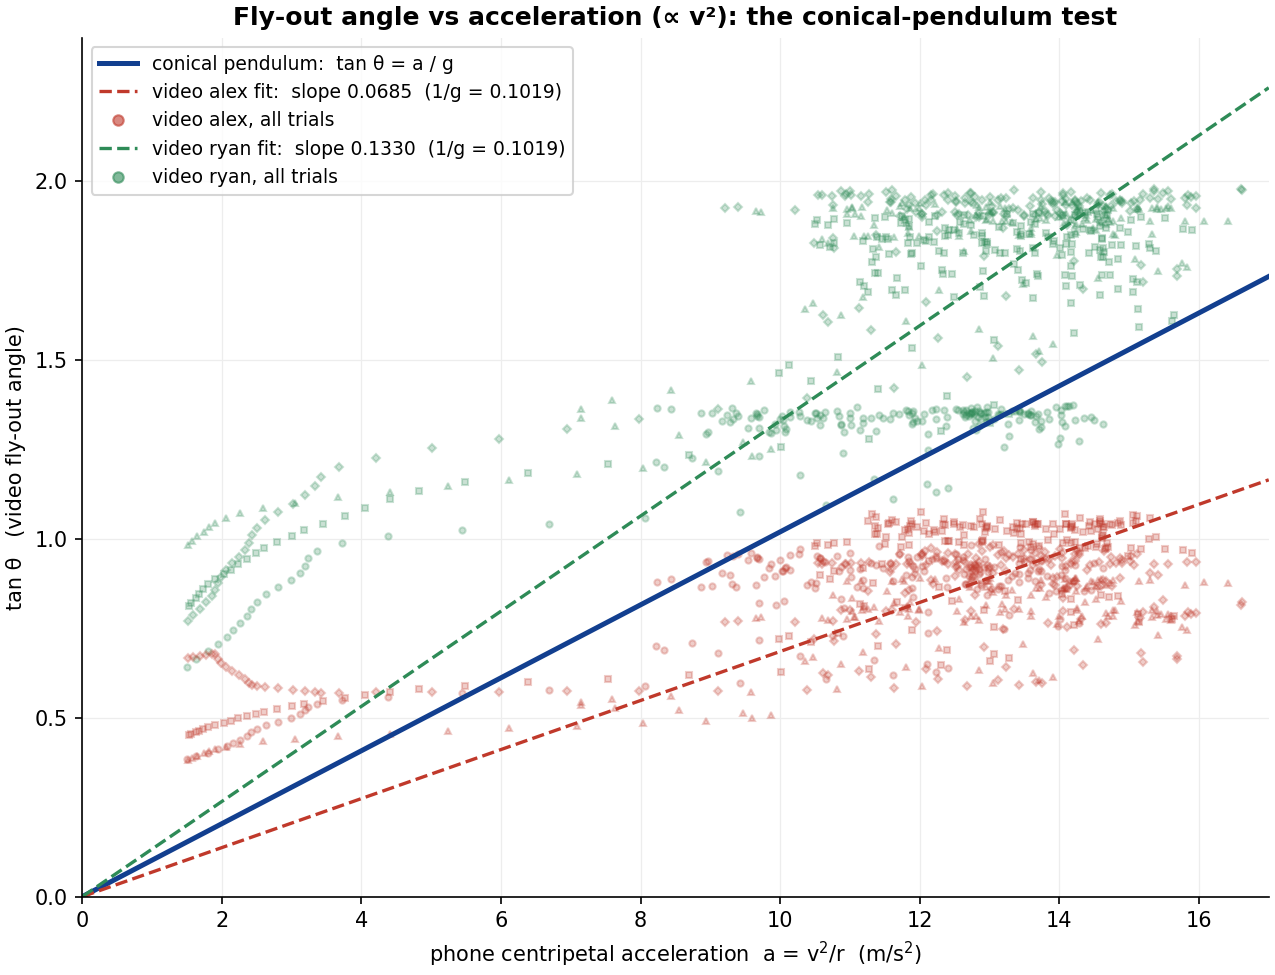
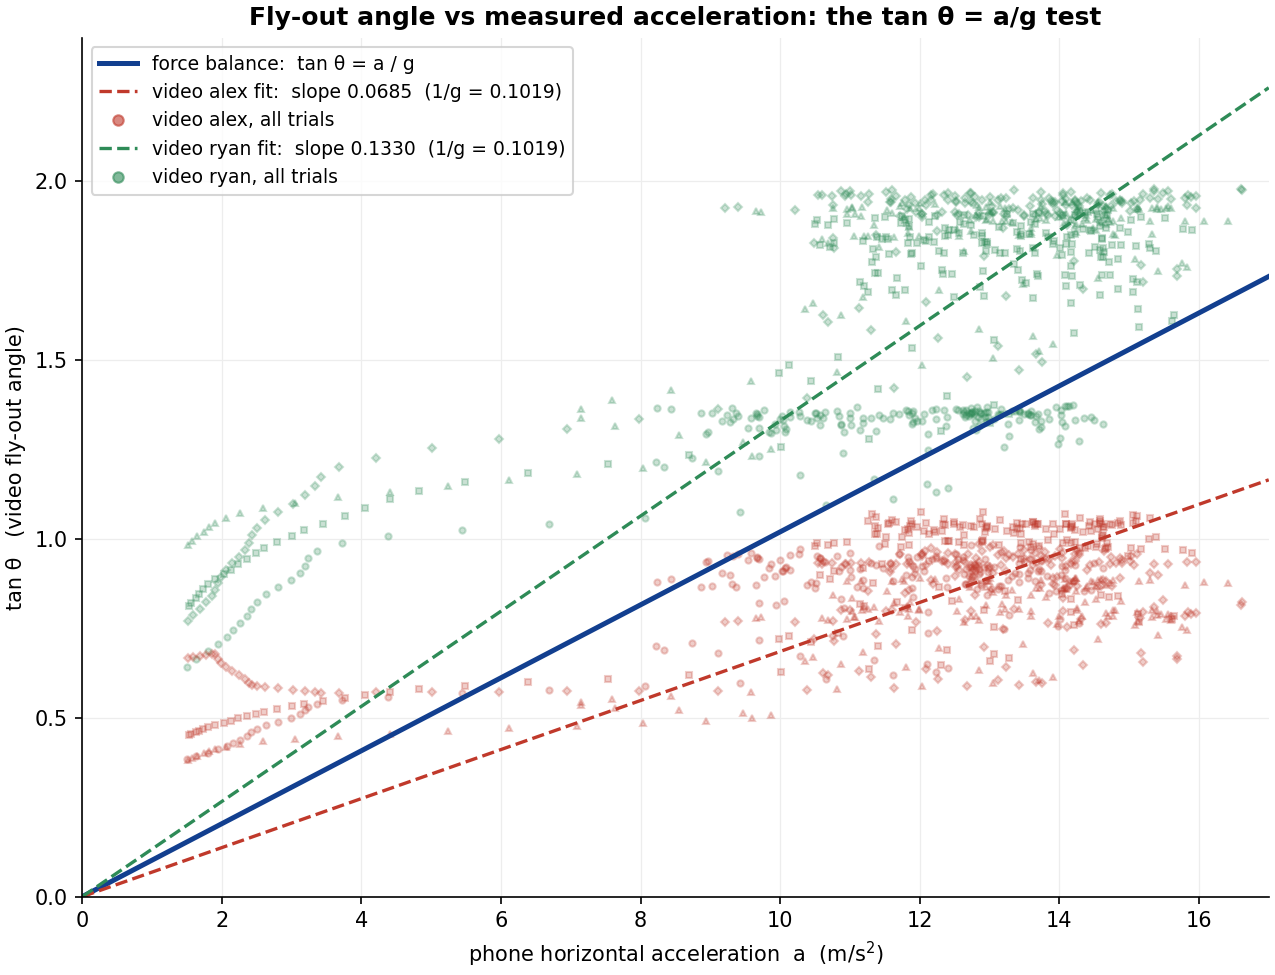
Keep the analysis to year 11 physics
The prof wants no circular motion, and none is needed: the phone measures
the horizontal acceleration directly, and resolving tension and weight on
a hanging chair gives tan theta = a/g. Scrubbed centripetal / v^2 /
conical-pendulum wording from the figure and docs; dropped the planned
v^2 axis, which would have needed a = v^2/r.

Changed region(s): [[0.1835, 0.0, 0.8871, 0.0308], [0.3365, 0.9538, 0.7341, 0.9846], [0.1224, 0.0615, 0.3365, 0.0923]]

diff --git a/scripts/angle_vs_accel.py b/scripts/angle_vs_accel.py
@@ -1,9 +1,10 @@
-# The correlation plot: video tan(theta) against the phone's centripetal
-# acceleration a. For a conical pendulum tan(theta) = a/g, and since a = v^2/r
-# this is the angle-vs-velocity-squared test with the radius factored out -
-# no ride geometry needed, everything on the plot is measured. Time pairing
-# comes from the synced per-trial sheets. Rows where the phone reads flat
-# (ride idle / rider not aboard) are dropped: there the video only sees junk.
+# The correlation plot: video tan(theta) against the phone's measured
+# horizontal acceleration a. Resolving forces on a hanging chair (tension
+# along the chain, weight down) with Newton's second law gives
+# T sin(theta) = m a and T cos(theta) = m g, so tan(theta) = a / g -
+# nothing beyond that is assumed. Time pairing comes from the synced
+# per-trial sheets. Rows where the phone reads flat (ride idle / rider not
+# aboard) are dropped: there the video only sees junk.
 #   python scripts/angle_vs_accel.py
 import os
 
@@ -40,7 +41,7 @@ for n in ("1", "2", "3", "4"):
         ax.plot(x[::4], y[::4], MARKS[n], color=color, ms=3, alpha=0.25)
 
 xs = np.linspace(0, 17, 50)
-ax.plot(xs, xs / G, color="#123f8f", lw=2.4, label="conical pendulum:  tan θ = a / g")
+ax.plot(xs, xs / G, color="#123f8f", lw=2.4, label="force balance:  tan θ = a / g")
 for cam, color in (("alex", accel.C_EMA), ("ryan", "#2e8b57")):
     x = np.concatenate(pts[cam][0])
     y = np.concatenate(pts[cam][1])
@@ -49,13 +50,13 @@ for cam, color in (("alex", accel.C_EMA), ("ryan", "#2e8b57")):
             label=f"video {cam} fit:  slope {slope:.4f}  (1/g = {1 / G:.4f})")
     ax.plot([], [], "o", color=color, ms=5, alpha=0.6, label=f"video {cam}, all trials")
 
-ax.set_xlabel("phone centripetal acceleration  a = v$^2$/r  (m/s$^2$)")
+ax.set_xlabel("phone horizontal acceleration  a  (m/s$^2$)")
 ax.set_ylabel("tan θ   (video fly-out angle)")
 ax.set_xlim(0, 17)
 ax.set_ylim(0, 2.4)
 ax.legend(fontsize=9, loc="upper left")
 accel.style_axis(ax)
-ax.set_title("Fly-out angle vs acceleration (∝ v²): the conical-pendulum test",
+ax.set_title("Fly-out angle vs measured acceleration: the tan θ = a/g test",
              fontsize=12, fontweight="bold")
 out = os.path.join(ROOT, "output", "report", "tan_theta_vs_accel.png")
 fig.savefig(out, dpi=150)

diff --git a/scripts/volare_angle.py b/scripts/volare_angle.py
@@ -1,5 +1,5 @@
 # Measures the fly-out angle of the Volare (chair swing ride) from video, no
-# clicking needed. The ride is a conical pendulum so tan(theta) = a/g, which is
+# clicking needed. Force balance on a hanging chair gives tan(theta) = a/g, which is
 # what we compare against the phone accelerometer (arctan(aT/g), since phyphox
 # logs linear acceleration).
 #

diff --git a/README.md b/README.md
@@ -7,9 +7,11 @@ fairground ride (the *Volare*, a wave swinger) from two independent sources:
 2. **Video** of the ride (two cameras) - the chains' fly-out angle θ(t), measured
    automatically frame by frame.
 
-The physics linking them: the ride is a conical pendulum, so at fly-out angle θ
-from vertical, **tan θ = a_horizontal / g**. The videos give θ independently of the
-phone, so the model is tested rather than assumed. (The phone logs are linear
+The physics linking them is a force balance on a hanging chair (year 11 kit,
+no circular motion needed): the chain tension and the weight resolve to
+**T sin θ = m a** and **T cos θ = m g**, so **tan θ = a / g** with a the
+measured horizontal acceleration. The videos give θ independently of the
+phone, so the relation is tested rather than assumed. (The phone logs linear
 acceleration, so on the rider **θ_accel = arctan(aT / g)** at steady state.)
 
 ## Layout
@@ -102,10 +104,9 @@ python scripts/angle_vs_accel.py
 ```
 
 writes `output/report/tan_theta_vs_accel.png`: video tan θ against the phone's
-centripetal acceleration, ramp-up and plateau, all trials pooled. Since
-a = v²/r this is the angle-versus-v² test with the radius factored out; the
-conical-pendulum line tan θ = a/g should (and does) run between the two
-cameras' clouds, whose fitted slopes bracket 1/g.
+measured horizontal acceleration, ramp-up and plateau, all trials pooled. The
+force-balance line tan θ = a/g should (and does) run between the two cameras'
+clouds, whose fitted slopes bracket 1/g.
 
 ## Synced spreadsheet (for Excel)
 
@@ -187,6 +188,6 @@ systematic is each camera's elevation estimate, worth several degrees on the
 absolute angle (Alex's camera reads low, Ryan's high, the phone in between).
 Across four trials and three instruments the steady fly-out is **θ ≈ 50 ± 4°**,
 giving a horizontal acceleration of **g·tan θ ≈ 11-13 m/s²**, consistent with
-the conical-pendulum model. Brief wind gusts can still leave an isolated spurious
-window or two during idle stretches; the phone trace beside the curve makes them
-obvious.
+the tan θ = a/g force balance. Brief wind gusts can still leave an isolated
+spurious window or two during idle stretches; the phone trace beside the curve
+makes them obvious.